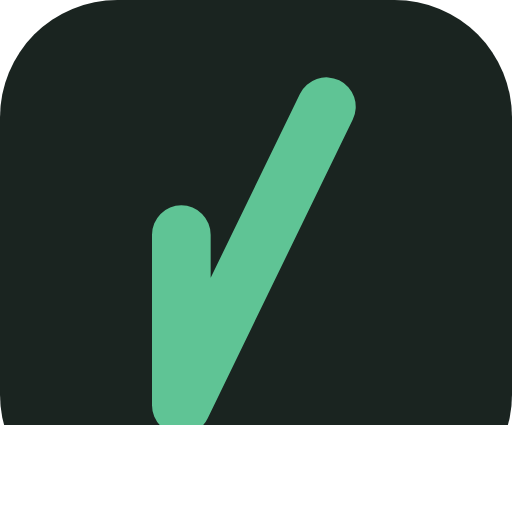
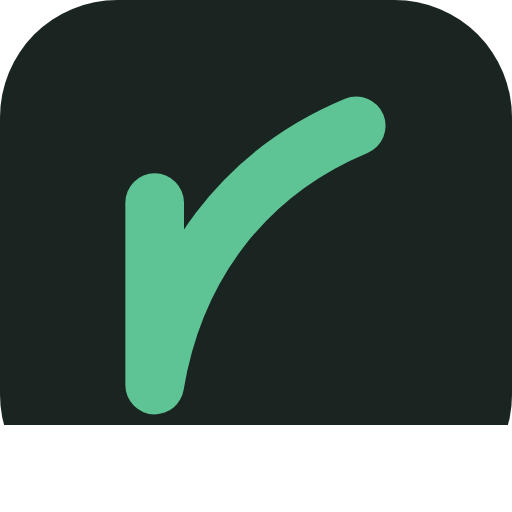
品牌：字标的勾改用 Flick 形状
Steven 选定 Tick B：r 的竖笔加一道从基线甩出的上扬弧。
同步更新图标、favicon 与品牌规范说明。

Claude-Session: https://claude.ai/code/session_01XNTVt567S8aNcA66WxiXQU

Changed region(s): [[0.2188, 0.125, 0.75, 0.8438], [0.5312, 0.25, 0.5625, 0.2812]]

diff --git a/index.html b/index.html
@@ -16,7 +16,7 @@
       <div class="wrap topbar-inner">
         <a class="brand" href="./" aria-label="ohmypaper 首页">
           <svg class="wordmark" viewBox="-8 22 545 114" aria-hidden="true" focusable="false">
-            <g fill="none" stroke="currentColor" stroke-width="12" stroke-linecap="round" stroke-linejoin="round"><circle cx="20" cy="80" r="20"/><path d="M59 30V100M59 100V80A20 20 0 0 1 99 80V100"/><path d="M119 60V100M119 100V75A15 15 0 0 1 149 75V100M149 75A15 15 0 0 1 179 75V100"/><path d="M194 60L214 100M234 60L200 128"/><path d="M249 60V128"/><circle cx="269" cy="80" r="20"/><circle cx="327" cy="80" r="20"/><path d="M347 60V100"/><path d="M367 60V128"/><circle cx="387" cy="80" r="20"/><path d="M425 80H465A20 20 0 1 0 460.3 92.9"/><path class="tick" d="M486 62V100L520 30"/></g>
+            <g fill="none" stroke="currentColor" stroke-width="12" stroke-linecap="round" stroke-linejoin="round"><circle cx="20" cy="80" r="20"/><path d="M59 30V100M59 100V80A20 20 0 0 1 99 80V100"/><path d="M119 60V100M119 100V75A15 15 0 0 1 149 75V100M149 75A15 15 0 0 1 179 75V100"/><path d="M194 60L214 100M234 60L200 128"/><path d="M249 60V128"/><circle cx="269" cy="80" r="20"/><circle cx="327" cy="80" r="20"/><path d="M347 60V100"/><path d="M367 60V128"/><circle cx="387" cy="80" r="20"/><path d="M425 80H465A20 20 0 1 0 460.3 92.9"/><path class="tick" d="M486 62V100C490 76 504 56 528 46"/></g>
           </svg>
           <span class="brand-sub">论文提交前体检</span>
         </a>

diff --git a/brand/README.md b/brand/README.md
@@ -2,7 +2,7 @@
 
 ## 字标
 
-`ohmypaper` 字标是自绘的几何单线字，没有使用任何现成字体。字标结尾的 r 同时也是一枚核验勾：短边是 r 的竖笔，高度等于 x 高度；长边一笔冲到上伸线，与 h 的顶端对齐。
+`ohmypaper` 字标是自绘的几何单线字，没有使用任何现成字体。字标结尾的 r 同时也是一枚核验勾（Flick）：竖笔高度等于 x 高度，肩部从基线落笔处甩出一道上扬的弧，像批改时顺手一挑。
 
 | 文件 | 用途 |
 |---|---|
